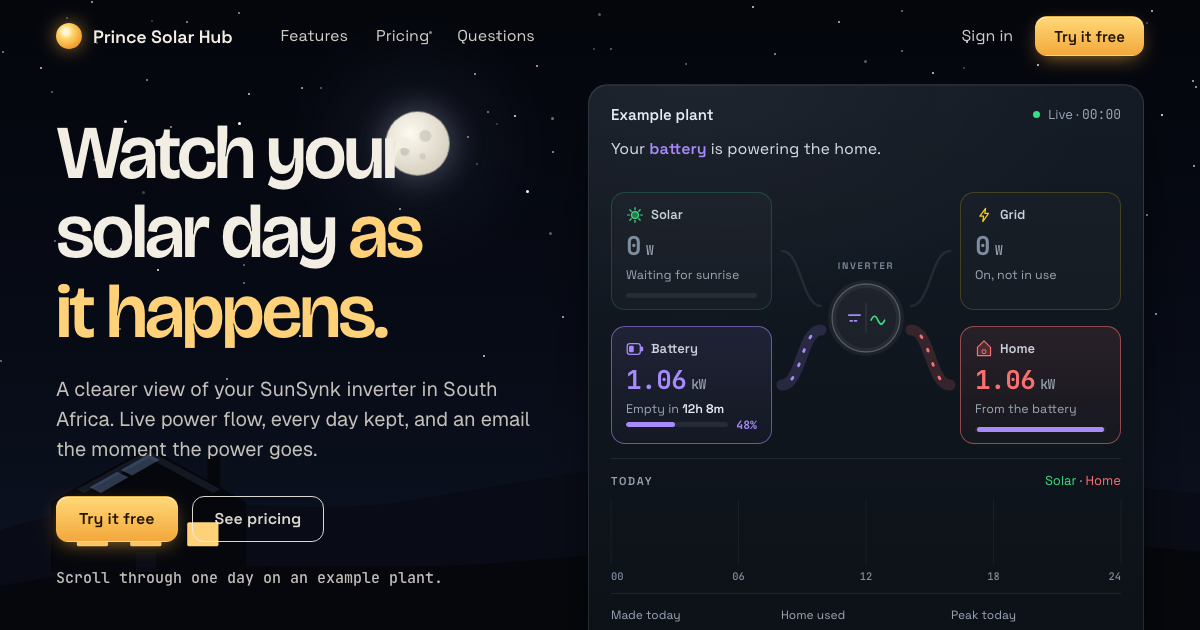
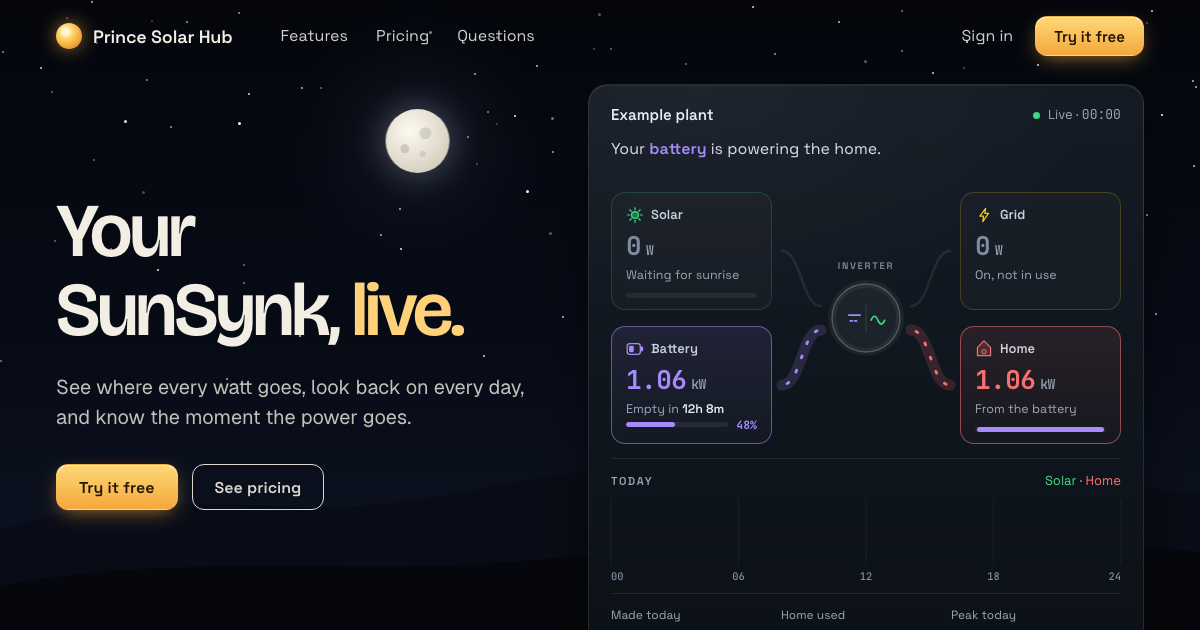
SOLAR-350: no scene art over the website's words; share image and not-found page.
- Words fade before they reach the house (laptop) or the strip over the hills (phone). Sun and moon step above any words that show, or below if the top bar is in the way. On a phone the arc runs low, between the words and the hills.
- Words turn dark at 7.35 h, not 8.8 h, so "See the sun arrive." no longer fades into the light sky.
- og.png re-shot from the first screen at 1200x630: "Your SunSynk, live.", moon clear, no offer bar.
- 404.html: Cloudflare Pages serves it with a 404 for a missing path, in place of the app's sign-in.

Check: npm test exit 0. In-page probe every 50-70 px through the day, 0 text hits at 375x812, 375x667, 1280x680, 1440x760 (7-8 before).

diff --git a/public/welcome-scene.js b/public/welcome-scene.js
@@ -142,17 +142,18 @@ const hex = h => [1, 3, 5].map(i => parseInt(h.slice(i, i + 2), 16));
 const mix = (a, b, t) => a.map((v, i) => Math.round(v + (b[i] - v) * t));
 const rgb = c => `rgb(${c[0]},${c[1]},${c[2]})`;
 // hour, sky top, mid, bottom, far hill, near hill, ink (0 light, 1 dark), stars
+// the words turn dark as soon as the sky behind them is lighter than mid-tone, so they never fade into a bright sky
 const K = [
   [0, '#04060c', '#070b16', '#0e1424', '#090c16', '#05070c', 0, 1],
   [5.0, '#05070f', '#0b1020', '#171b33', '#0b0e1a', '#06080e', 0, 1],
   [5.9, '#0f1433', '#3b2f5e', '#c0656a', '#1a1626', '#0b0a12', 0, .55],
   [6.7, '#23305c', '#8a6282', '#f2a46f', '#3a2a2e', '#1a1418', 0, .05],
-  [8.0, '#6f6a8a', '#d9a27a', '#f6cf96', '#7a5a3e', '#3c2c20', 0, 0],
+  [8.0, '#6f6a8a', '#d9a27a', '#f6cf96', '#7a5a3e', '#3c2c20', 1, 0],
   [9.6, '#c08c4c', '#ebbd74', '#f9e0ad', '#a77d48', '#5e4428', 1, 0],
   [12.3, '#e3a744', '#f4cd7f', '#fdedc6', '#b98c4c', '#6e522e', 1, 0],
   [15.2, '#d68c38', '#efb462', '#f8d79e', '#a7743c', '#5c3f22', 1, 0],
   [16.6, '#b9672f', '#df9150', '#f1bd7c', '#874f2c', '#46291a', 1, 0],
-  [17.4, '#7e3f3c', '#c8664c', '#ee9d5e', '#5a2f2a', '#2c1816', 0, 0],
+  [17.4, '#7e3f3c', '#c8664c', '#ee9d5e', '#5a2f2a', '#2c1816', .7, 0],
   [18.4, '#3e2046', '#a1475c', '#ec8650', '#341c2a', '#1a0e16', 0, .1],
   [19.3, '#171633', '#3e2850', '#7a3f58', '#1a1424', '#0c0a12', 0, .5],
   [20.6, '#070a17', '#0d1124', '#181a33', '#0b0d18', '#06070d', 0, 1],
@@ -178,21 +179,53 @@ const moments = [...document.querySelectorAll('.moment')];
 // sizes and positions are read here, once and again when they change, never in a scroll frame:
 // a read after that frame's writes forced a fresh style and layout pass, ~30 ms a frame on a mid-range phone
 let L;
+// the words' own boxes, not their column: a short line or the buttons leave room beside them
+const inked = e => { const r = document.createRange(); r.selectNodeContents(e); return r.getBoundingClientRect(); };
+// the sun's disc and the moon, each with room to spare
+const SUN_R = 38, MOON_R = 44;
 function measure() {
-  const y = scrollY, r = cardEl.getBoundingClientRect();
-  L = { W: stage.clientWidth, H: stage.clientHeight, dayEnd: day.offsetTop + day.offsetHeight,
+  const y = scrollY, r = cardEl.getBoundingClientRect(), phone = innerWidth <= 860;
+  const land = document.querySelector('.land'), house = $('houseBody'), sTop = stage.getBoundingClientRect().top;
+  const landTop = land.offsetTop;
+  // where words may not go: on a phone the strip over the hills, where the sun and moon run; on a laptop the house
+  const hb = house.getBoundingClientRect(), keep = [];
+  if (phone) keep.push({ l: -1e5, r: 1e5, t: landTop - 46, b: 1e5 });
+  else if (hb.width) keep.push({ l: hb.left - 24, r: hb.right + 24, t: hb.top - sTop - 40, b: 1e5 });
+  L = { W: stage.clientWidth, H: stage.clientHeight, dayEnd: day.offsetTop + day.offsetHeight, landTop, keep,
+    navB: top.getBoundingClientRect().bottom + 8,
     // the card sticks at its sticky top until its column's foot pushes it up; drawn smaller than its box on a phone
     cardTop: parseFloat(getComputedStyle(cardEl).top), cardDrawn: r.height,
     cardLast: cardEl.parentElement.getBoundingClientRect().bottom + y - cardEl.offsetHeight,
-    mo: moments.map(e => ({ top: e.getBoundingClientRect().top + y, h: e.offsetHeight })) };
+    mo: moments.map(e => ({ top: e.getBoundingClientRect().top + y, h: e.offsetHeight, seen: -1e9,
+      words: [...e.children].filter(c => c.offsetHeight).map(c => { const b = inked(c); return { l: b.left, r: b.right, t: b.top + y, b: b.bottom + y }; }) })) };
 }
-function placeSun(h, y, vw) {
-  const sunEl = $('sun'), W = L.W, Hh = L.H;
-  // the arc's foot and crown; a phone keeps it in the open sky between the card's foot and the hills
-  const cardFoot = Math.min(L.cardTop, L.cardLast - y) + L.cardDrawn;
-  const phone = vw <= 860, foot = phone ? Hh - 40 : Hh - 110, crown = phone ? cardFoot + 56 : 110;
+/* the sun and moon never sit on words that show: one that would steps just above them, or below if the top bar is in the way */
+const lift = { sun: 0, moon: 0 };
+function dodge(x, v, r, y) {
+  for (const o of L.mo) {
+    if (!o.shown) continue;
+    const ws = o.words.filter(w => x + r > w.l && x - r < w.r);
+    if (!ws.length) continue;
+    const t = Math.min(...ws.map(w => w.t)) - y, b = Math.max(...ws.map(w => w.b)) - y;
+    if (v + r > t && v - r < b) v = t - 2 * r >= L.navB ? t - r : b + r;
+  }
+  return v;
+}
+function placeSun(h, y, vw, dt) {
+  const sunEl = $('sun'), W = L.W, Hh = L.H, phone = vw <= 860;
+  // the arc's foot and crown; a phone keeps it low, in the strip between the words and the hills
+  const foot = phone ? L.landTop + 24 : Hh - 110, crown = r => phone ? L.landTop - 52 + r + 6 : 110;
   const t = (h - 5.9) / (18.8 - 5.9), up = Math.min(1, Math.max(0, t));
-  const sx = W * (.06 + .88 * up), sy = foot - Math.pow(Math.sin(Math.PI * up), .55) * (foot - crown);
+  const arc = (k, r) => foot - Math.pow(Math.sin(Math.PI * Math.min(1, Math.max(0, k))), .55) * (foot - crown(r));
+  const k = reduce ? 1 : 1 - Math.exp(-dt / 90);
+  let busy = false;
+  const ride = (n, x, v, r) => {
+    const want = dodge(x, v, r, y) - v;
+    lift[n] += (want - lift[n]) * k;
+    if (Math.abs(want - lift[n]) < .5) lift[n] = want; else busy = true;
+    return v + lift[n];
+  };
+  const sx = W * (.06 + .88 * up), sy = ride('sun', sx, arc(up, SUN_R - 12), SUN_R);
   sunEl.style.transform = `translate(${sx}px,${sy}px)`;
   sunEl.style.opacity = t > -.02 && t < 1.02 ? 1 : 0;
   const warm = Math.sin(Math.PI * up);
@@ -200,8 +233,9 @@ function placeSun(h, y, vw) {
   sunEl.style.setProperty('--glow', `rgba(255,${Math.round(150 + warm * 70)},${Math.round(70 + warm * 50)},${(.45 + warm * .2).toFixed(2)})`);
   // the moon crosses the night sky on the same arc
   const moon = $('moon'), mt = ((h < 12 ? h + 24 : h) - 13.3) / 32.7;
-  const mx = W * (.06 + .88 * mt), my = foot - Math.pow(Math.sin(Math.PI * Math.min(1, Math.max(0, mt))), .55) * (foot - crown);
+  const mx = W * (.06 + .88 * mt), my = ride('moon', mx, arc(mt, MOON_R - 12), MOON_R);
   moon.style.transform = `translate(${mx}px,${my}px)`;
+  return busy;
 }
 let navInk, navWas;
 function inkNav(y, vh) {
@@ -292,9 +326,16 @@ function hourAtScroll(y, vh, vw) {
   const t = Math.min(1, Math.max(0, (c - a) / (b - a)));
   return MO[MO.length - 1][0] + (24 - MO[MO.length - 1][0]) * t;
 }
-/* each moment fades in while it holds the middle of the screen, and out as it leaves */
-const cardOut = (y, vh) => {
-  L.mo.forEach((o, i) => moments[i].classList.toggle('on', Math.abs(o.top - y + o.h / 2 - vh / 2) < vh * .3));
+/* each moment fades in while it holds the middle of the screen, and out as it leaves or reaches the hills' strip or the house */
+const clear = (o, y) => !o.words.some(w => L.keep.some(k => w.l < k.r && w.r > k.l && w.t - y < k.b && w.b - y > k.t));
+const cardOut = (y, vh, ts) => {
+  L.mo.forEach((o, i) => {
+    const on = Math.abs(o.top - y + o.h / 2 - vh / 2) < vh * .3 && clear(o, y);
+    if (on) o.seen = ts;
+    // words still fading out keep the sun and moon off them
+    o.shown = on || ts - o.seen < 700;
+    moments[i].classList.toggle('on', on);
+  });
   const lastM = L.mo[L.mo.length - 1];
   cardEl.classList.toggle('gone', lastM.top + lastM.h - y < vh * .4);
 };
@@ -306,12 +347,13 @@ function tick(ts) {
   hNow = reduce || hNow == null ? target : hNow + (target - hNow) * (1 - Math.exp(-dt / 220));
   if (Math.abs(target - hNow) < .002) hNow = target;
   if (hNow !== hDrawn) { hDrawn = hNow; skyTo(hNow); }
-  // every frame: on a phone the arc rides under the card, and the card scrolls away after the day
-  placeSun(hNow, y, vw);
+  const now = ts || performance.now();
+  inkNav(y, vh); cardOut(y, vh, now);
+  // every frame: the sun and moon step around the words that show, and the card scrolls away after the day
+  const busy = placeSun(hNow, y, vw, dt) || L.mo.some(o => o.shown && now - o.seen > 0);
   const m = Math.min(N - 1, Math.round(hNow * 60));
   if (m !== mDrawn) { mDrawn = m; cardAt(m, hNow); }
-  inkNav(y, vh); cardOut(y, vh);
-  raf = hNow === target ? 0 : requestAnimationFrame(tick);
+  raf = hNow === target && !busy ? 0 : requestAnimationFrame(tick);
   if (!raf) last = 0;
 }
 const kick = () => { if (!raf) raf = requestAnimationFrame(tick); };

diff --git a/public/404.html b/public/404.html
@@ -1,0 +1,66 @@
+<!doctype html>
+<html lang="en">
+<head>
+<meta charset="UTF-8" />
+<meta name="viewport" content="width=device-width, initial-scale=1.0, viewport-fit=cover" />
+<title>Page not found · Prince Solar Hub</title>
+<!-- Cloudflare Pages serves this, with a 404, for any address that has no file (SOLAR-350).
+     It answers at every depth, so every link and file here is absolute. -->
+<meta name="robots" content="noindex" />
+<meta name="theme-color" content="#06080f" />
+<link rel="icon" type="image/svg+xml" href="/icon.svg" />
+<link rel="preconnect" href="https://fonts.googleapis.com">
+<link rel="preconnect" href="https://fonts.gstatic.com" crossorigin>
+<link rel="stylesheet" href="https://fonts.googleapis.com/css2?family=Bricolage+Grotesque:opsz,wght@12..96,600&family=Geist:wght@400&family=Space+Grotesk:wght@600&display=swap">
+<style>
+/* the showcase's night (welcome.html): same colours, type, buttons and hills */
+:root{--night:#06080f;--paper:#f3eee4;--ink-soft:rgba(243,238,228,.78);--sun:#ffd56b;--sun-mid:#f4a93a;--sun-rim:#e07a1f;--gold:#f2c36b;
+  --sans:"Space Grotesk",system-ui,sans-serif;--display:"Bricolage Grotesque",system-ui,sans-serif;--body:"Geist",system-ui,sans-serif;color-scheme:dark}
+*{box-sizing:border-box;margin:0;padding:0}
+html{background:var(--night)}
+body{min-height:100svh;display:flex;flex-direction:column;background:linear-gradient(180deg,#04060c 0%,#0b1020 55%,#171b33 100%);color:var(--paper);font:400 18px/1.55 var(--sans);-webkit-font-smoothing:antialiased}
+a{color:inherit}
+:focus-visible{outline:2px solid var(--gold);outline-offset:3px;border-radius:6px}
+header{max-width:1280px;width:100%;margin:0 auto;padding:0 56px;height:72px;display:flex;align-items:center}
+.brand{display:flex;align-items:center;gap:11px;font:600 18px var(--sans);text-decoration:none;letter-spacing:-.01em;min-height:44px}
+.orb{width:26px;height:26px;border-radius:50%;background:radial-gradient(circle at 38% 34%,#fff6d6 0 12%,var(--sun) 30%,var(--sun-mid) 62%,var(--sun-rim) 100%);box-shadow:0 0 18px rgba(255,190,80,.55)}
+main{flex:1;max-width:1280px;width:100%;margin:0 auto;padding:12vh 56px 48px}
+h1{font:600 76px/1.04 var(--display);font-variation-settings:'opsz' 96;letter-spacing:-.035em;max-width:640px}
+h1 em{font-style:normal;color:#ffd27a}
+p{margin-top:22px;font:400 20px/1.5 var(--body);color:var(--ink-soft);max-width:30em}
+.cta{display:flex;flex-wrap:wrap;gap:14px;margin-top:32px}
+.btn{display:inline-flex;align-items:center;justify-content:center;height:46px;padding:0 22px;border-radius:12px;font:600 16px var(--sans);text-decoration:none;border:1px solid transparent}
+.btn.sun{background:linear-gradient(180deg,#ffd877,#f3a83c);color:#241500;box-shadow:0 6px 20px -6px rgba(243,168,60,.7),inset 0 1px 0 rgba(255,255,255,.5)}
+.btn.ghost{border-color:currentColor;opacity:.9}
+.btn.ghost:hover{opacity:1;background:rgba(127,127,127,.1)}
+/* the hills and the house sit under the words, never behind them */
+.land{position:relative;height:160px;flex:none}
+.land svg{position:absolute;inset:0;width:100%;height:100%}
+.land svg.house{inset:auto 12% 44px auto;width:150px;height:auto}
+@media (max-width:860px){
+  header,main{padding-left:16px;padding-right:16px}
+  h1{font-size:40px}p{font-size:17px;margin-top:12px}.cta{margin-top:18px}
+  .land{height:110px}.land svg.house{right:16px;bottom:30px;width:96px}
+}
+</style>
+</head>
+<body>
+<header><a class="brand" href="https://princesolarhub.co.za/"><span class="orb" aria-hidden="true"></span>Prince Solar Hub</a></header>
+<main>
+  <h1>Nothing <em>here.</em></h1>
+  <p>Check the address, or start again from the home page.</p>
+  <div class="cta"><a class="btn sun" href="https://princesolarhub.co.za/">Home page</a><a class="btn ghost" href="https://app.princesolarhub.co.za/">Sign in</a></div>
+</main>
+<div class="land" aria-hidden="true">
+  <svg viewBox="0 0 1440 160" preserveAspectRatio="none">
+    <path fill="#0b0e1a" d="M0 60 C180 20 330 50 480 36 C640 20 760 0 930 22 C1090 44 1230 14 1440 30 V160 H0Z"/>
+    <path fill="#06080e" d="M0 116 C220 84 420 108 640 94 C860 80 1040 102 1240 86 C1330 80 1390 84 1440 88 V160 H0Z"/>
+  </svg>
+  <svg class="house" viewBox="0 0 250 150">
+    <path fill="#06080e" d="M12 74 L118 14 L224 74 V150 H12Z"/><rect fill="#06080e" x="182" y="24" width="14" height="34"/>
+    <rect fill="#ffd27a" x="40" y="96" width="34" height="26" rx="2"/><rect fill="#ffd27a" x="98" y="96" width="34" height="26" rx="2"/><rect fill="#ffd27a" x="160" y="96" width="34" height="26" rx="2"/>
+    <rect fill="#0b0e1a" x="104" y="128" width="22" height="22"/>
+  </svg>
+</div>
+</body>
+</html>

diff --git a/public/welcome.html b/public/welcome.html
@@ -595,8 +595,6 @@ footer a{text-decoration:none}footer a:hover{text-decoration:underline}
   .moment{justify-content:flex-end;padding:0 0 116px;min-height:100svh}
   /* a small house on the hill, bottom right, under the words */
   .house{display:block;left:auto;right:16px;bottom:calc(20px + 100lvh - 100svh);width:96px}
-  /* the moon's path runs behind the words here, so it stays dim */
-  .moonorb{filter:opacity(.4)}
   .moment+.moment{min-height:70svh}
   /* the stage is the full screen with the address bar hidden; while the bar shows it covers the stage's foot,
      so hills and house sit that much higher and the near hill's colour fills the strip under them */
